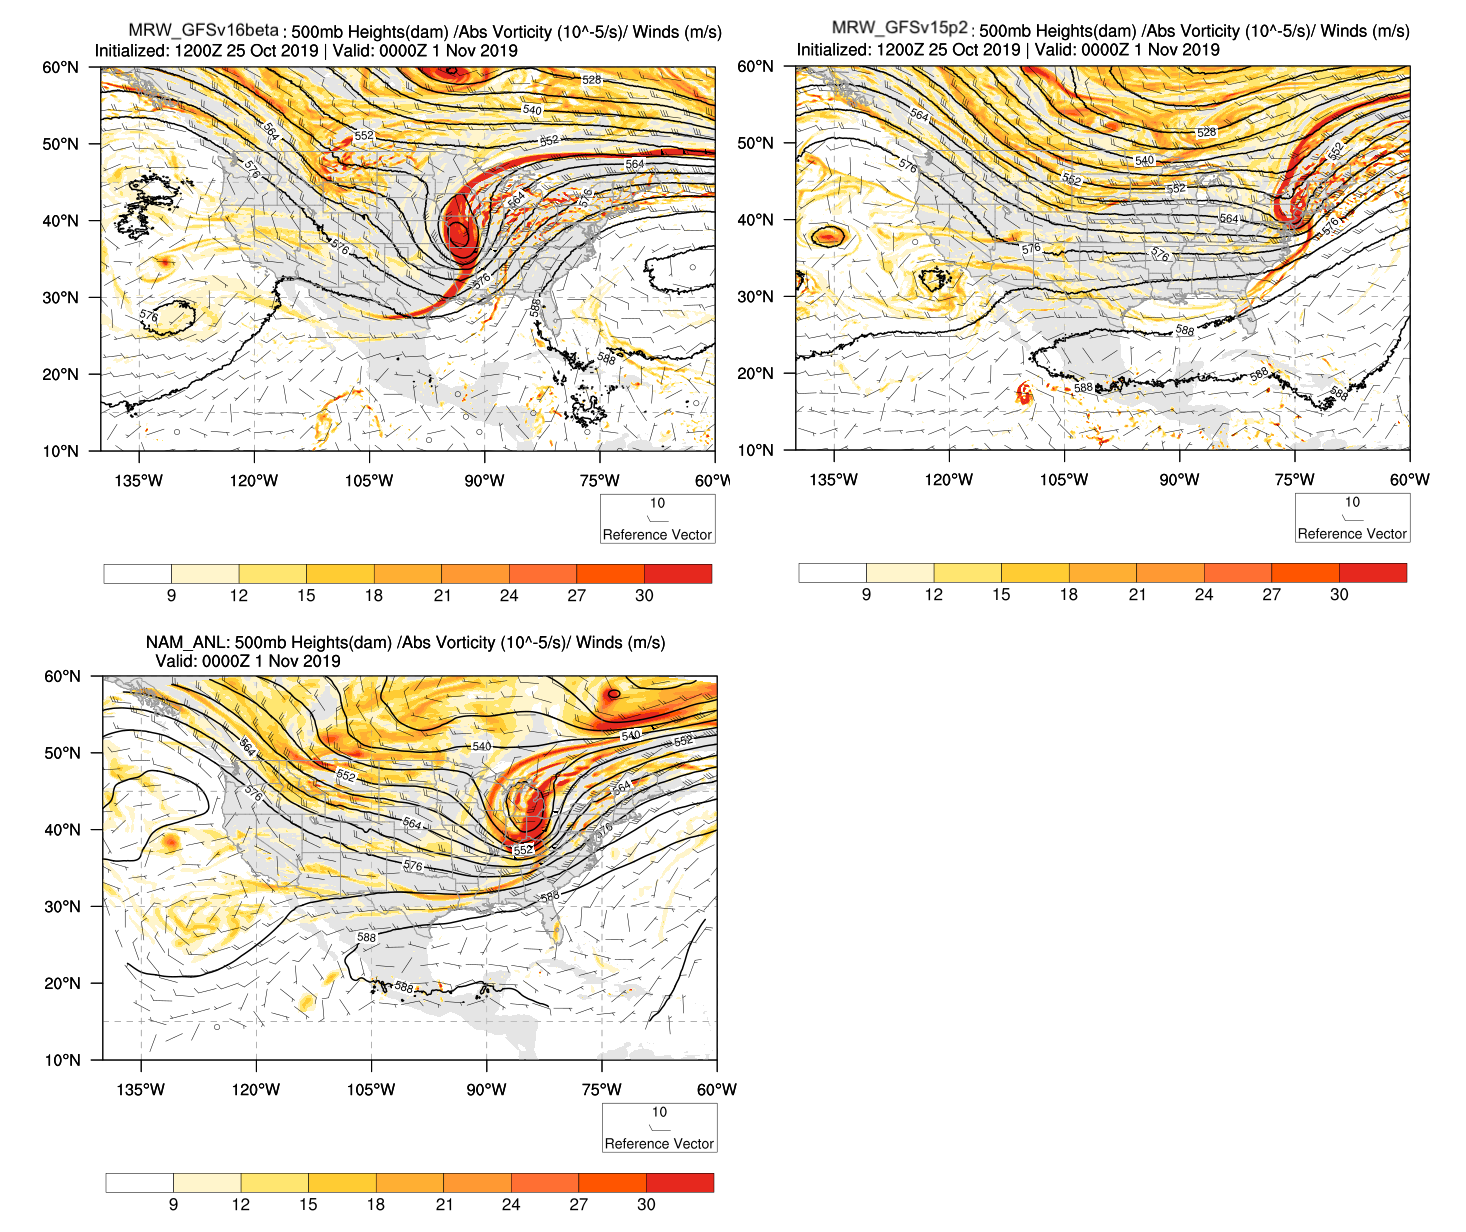
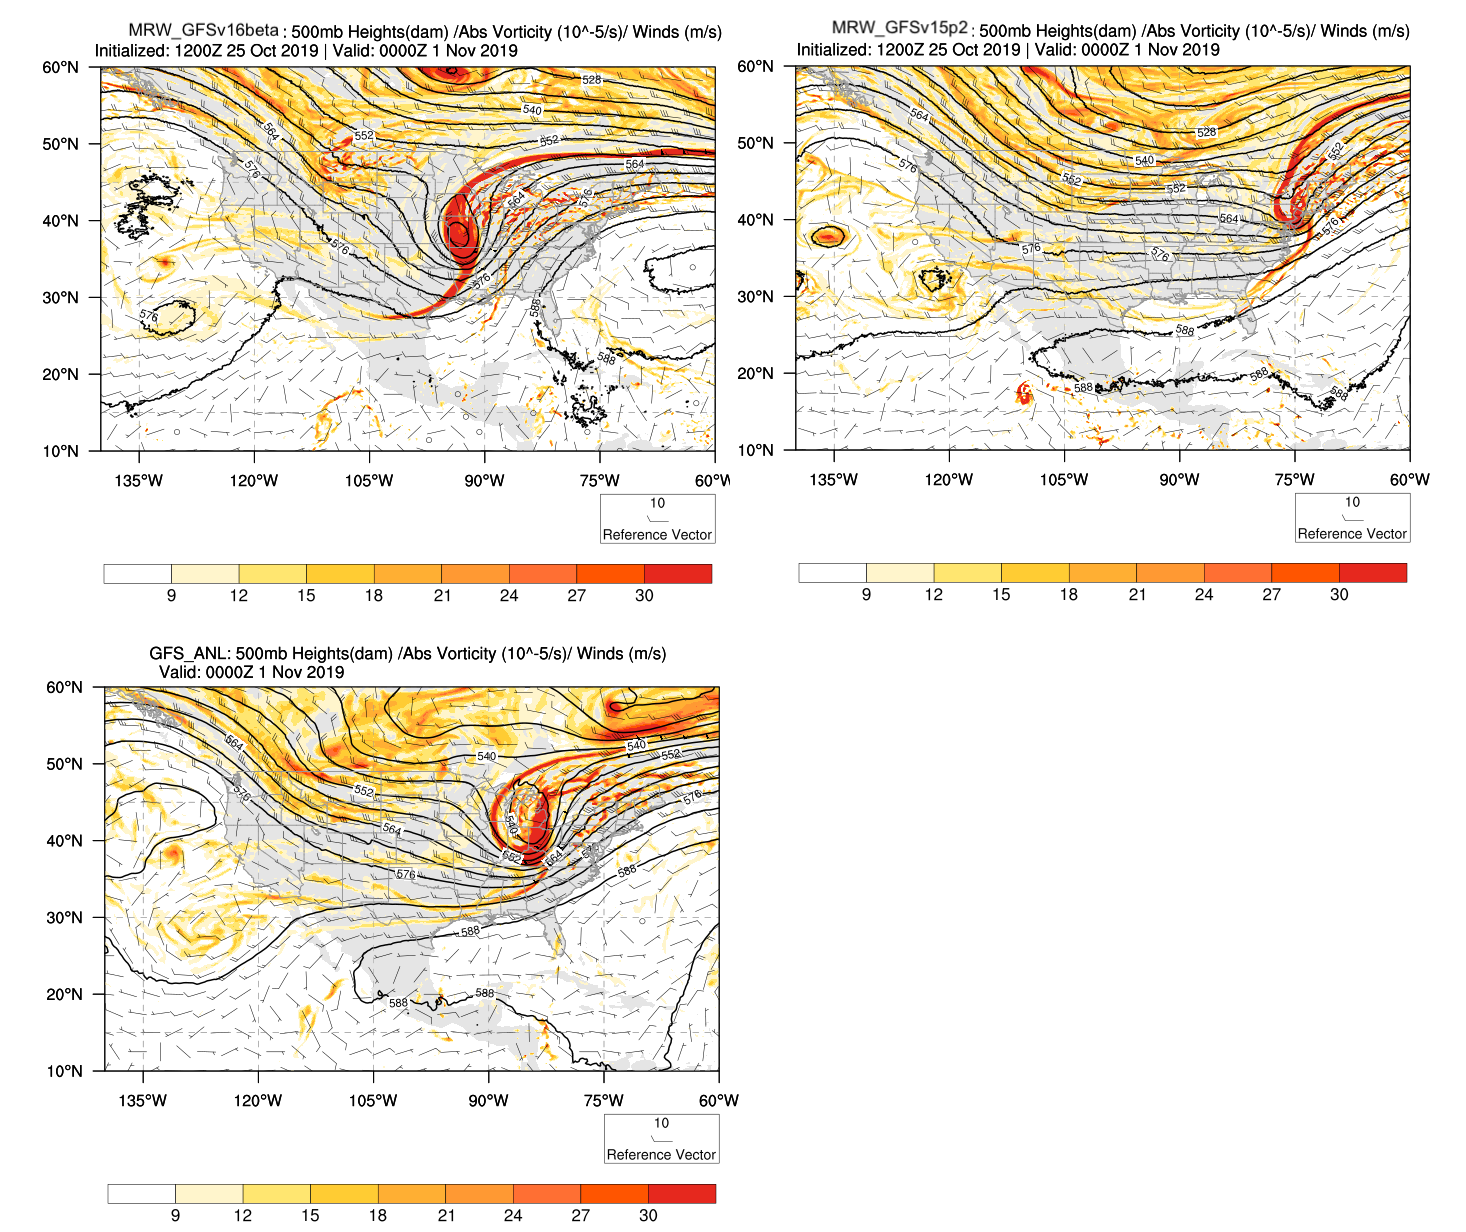
Add GFS.v.16.0.10 results for 2019 Halloween Storm Case (#4)
* change legends to MRW_GFSv15p2 and MRW_GFSv16beta

* add GFS.v16.0.10 results for 2019HalloweenStorm case

* update README

* update requirements.txt

Changed region(s): [[0.0307, 0.4935, 0.5218, 0.987]]

diff --git a/docs/source/conf.py b/docs/source/conf.py
@@ -69,6 +69,7 @@ extensions = [
     'sphinx.ext.viewcode',
     'sphinx.ext.autodoc',
     'sphinx_gallery.gen_gallery',
+    'sphinx_tabs.tabs',
 #    'sphinx_rtd_theme',
 #    'sphinx_gallery.gen_gallery',
 #    'sphinx-prompt',

diff --git a/docs/source/2019Haloween.rst b/docs/source/2019Haloween.rst
@@ -13,25 +13,51 @@ The 2019 Halloween storm stroke the eastern U.S. cities with wind gusts, thunder
 ..............................
 Model Configuration and Datasets
 ..............................
+.. tabs::
+  .. group-tab:: MRW.v1.0
 
-The case runs are initialized at 12z Oct 25, 2019 with 120 hours forecasting. The corresponding namelist options that need to be changed are listed below. The app uses ``./xmlchange`` to change the runtime settings. The settings that need to be modified to set up the start date, start time, and run time are listed below.
+    The UFS Medium-Range Weather (MRW) Application (App) is used to prepare initial conditions, compile and run the UFS model, and post process the raw model outputs. Two model configuration compsets (``GFSv15p2`` and ``GFSv16beta``) are tested using the :emphasis:`C768` (~13km) spatial resolution with 64 vertical levels (default).
 
-.. code-block:: bash
+    The case runs are initialized at 12z Oct 25, 2019 with 120 hours forecasting. The corresponding namelist options that need to be changed are listed below. The app uses ``./xmlchange`` to change the runtime settings. The settings that need to be modified to set up the start date, start time, and run time are listed below.
+
+    .. code-block:: bash
  
-   ./xmlchange RUN_STARTDATE=20191025,START_TOD=43200,STOP_OPTION=nhours,STOP_N=120
+      ./xmlchange RUN_STARTDATE=20191025,START_TOD=43200,STOP_OPTION=nhours,STOP_N=120
 
-.. warning:: The model run time step is reduced from the default 225s to 150s in this case due to the model instability in GFSv16beta. To set the time step, add ``dt_atmos=150`` to ``user_nl_ufsatm``
+    .. warning:: The model run time step is reduced from the default 225s to 150s in this case due to the model instability in GFSv16beta. To set the time step, add ``dt_atmos=150`` to ``user_nl_ufsatm``
 
-Initial condition (IC) files are created from GFS operational dataset in NEMSIO format. The `GFS reanalysis dataset <https://www.ncdc.noaa.gov/data-access/model-data/model-datasets/global-forcast-system-gfs>`_ are used as 'truth' to compare with simulation results.
+    Initial condition (IC) files are created from GFS operational dataset in NEMSIO format. The `GFS reanalysis dataset <https://www.ncdc.noaa.gov/data-access/model-data/model-datasets/global-forcast-system-gfs>`_ are used as 'truth' to compare with simulation results.
 
- .. container:: sphx-glr-footer
-    :class: sphx-glr-footer-example
+    .. container:: sphx-glr-footer
+       :class: sphx-glr-footer-example
 
 
+      .. container:: sphx-glr-download sphx-glr-download-python
 
-  .. container:: sphx-glr-download sphx-glr-download-python
+        :download:`Download initial condition files: 2019102512.gfs.nemsio.tar.gz <https://domain.invalid/>`
+  
+  .. group-tab:: GFS.v16.0.10
 
-     :download:`Download initial condition files: 2019102512.gfs.nemsio.tar.gz <https://domain.invalid/>`
+    The GFS model EMC global workflow points to the most up-to-date GFS model development code. The GFS.v16.0.10 is tested in C768 (~13km) resolution and in 128 vertical levels. It uses to two scripts, ``./setup_expt_fcstonly.py`` and ``setup_workflow_fcstonly.py`` to set up the mode simulation date and case directories.
+
+    The case runs are initialized at 12z Oct 25, 2019 with 120 hours forecasting. The settings that need to be modified to set up the start date and directories are listed below. 
+
+    .. code-block:: bash
+ 
+      ./setup_expt_fcstonly.py --pslot 2019Halloween --configdir /PATH/TO/YOUR/GLOBAL/WORKFLOW/parm/config --idate 2019071100 --edate 2019071100 --res 768 --comrot /PATH/TO/YOUR/EXP/DIR/comrot --expdir /PATH/TO/YOUR/EXP/OUTPUT/expdir 
+
+    The account and simulation duration time can be set up in ``/expdir/2019Halloween/config.base`` file. 
+
+    .. code-block:: bash
+
+      ./setup_workflow_fcstonly.py --expdir /PATH/TO/YOUR/OUTPUT/expdir/Barry 
+
+    Next step is to go to ``/expdir/2019Halloween`` to submit the run by
+
+    .. code-block:: bash
+   
+      crontab Barry.crontab  
+        
 ..............
 Case Results
 ..............
@@ -39,45 +65,83 @@ Case Results
 ======================================================
 500 mb Geopotential Height and Absolute Vorticity Map
 ======================================================
+.. tabs::
+  .. group-tab:: MRW.v1.0
 
-.. figure:: images/500mb_2019110100_150s.png
-  :width: 1200
-  :align: center
+    .. figure:: images/500mb_2019110100_150s.png
+      :width: 1200
+      :align: center
 
-  500 hPa geopotential heights (dam), absolute vorticity (10 :sup:`-5`/s), and winds (m/s)
+      500 hPa geopotential heights (dam), absolute vorticity (10 :sup:`-5`/s), and winds (m/s)
 
-* MRW_GFSv15p2 generates a progressive synoptic pattern compared with reanalysis data. 
-* MRW_GFSv16beta alleviates the progressiveness of synoptic pattern.
+    * MRW_GFSv15p2 generates a progressive synoptic pattern compared with reanalysis data. 
+    * MRW_GFSv16beta alleviates the progressiveness of synoptic pattern.
+  .. group-tab:: GFS.v16.0.10
+
+    .. figure:: images/Halloween_GFS.v16.0.10_500mb_2019110100.png
+      :width: 1200
+      :align: center
+
+      500 hPa geopotential heights (dam), absolute vorticity (10 :sup:`-5`/s), and winds (m/s)
+
+    * GFS.v16.0.10 generates a progressive synoptic pattern compared with reanalysis data. 
 
 ====================================
 Surface Gust and 2-m Temperature
 ====================================
+.. tabs::
+  .. group-tab:: MRW.v1.0
 
-.. figure:: images/Halloween_f156_GUST_surface.png
-  :width: 1200
-  :align: center
+    .. figure:: images/Halloween_f156_GUST_surface.png
+      :width: 1200
+      :align: center
 
-  Surface gust (m/s) valid at 00z 1 Nov 2019
+      Surface gust (m/s) valid at 00z 1 Nov 2019
 
-* MRW_GFSv15p2 captures the magnitudes of surface gust in GFS_ANL. 
-* MRW_GFSv16beta does not reach the peak of surface gust in GFS_ANL. 
-  
-.. figure:: images/Haloween_f156_TMP_2maboveground.png
-  :width: 1200
-  :align: center
+    * MRW_GFSv15p2 captures the magnitudes of surface gust in GFS_ANL. 
+    * MRW_GFSv16beta does not reach the peak of surface gust in GFS_ANL. 
+    .. figure:: images/Haloween_f156_TMP_2maboveground.png
+      :width: 1200
+      :align: center
 
-  2-m temperature (K) valid at 00z 1 Nov 2019 
+      2-m temperature (K) valid at 00z 1 Nov 2019 
 
-* Colder 2-m T in MRW_GFSv15p2 along the U.S. east coast compared with GFS_ANL
-* Colder 2-m T at New England and warmer 2-m T at the Southeast in MRW_GFSv16beta
+    * Colder 2-m T in MRW_GFSv15p2 along the U.S. east coast compared with GFS_ANL
+    * Colder 2-m T at New England and warmer 2-m T at the Southeast in MRW_GFSv16beta  
+  .. group-tab:: GFS.v16.0.10
+
+    .. figure:: images/Halloween_GFS16.0.10_f156_GUST_surface.png
+      :width: 1200
+      :align: center
+
+      Surface gust (m/s) valid at 00z 1 Nov 2019
+
+    * GFS.v16.0.10 does not capture the surface gust at the Great Lakes Region, accompanied by a faster-moving and narrower trough compared with GFS_ANL. 
+      
+    .. figure:: images/Halloween_GFS16.0.10_f156_TMP_2maboveground.png
+      :width: 1200
+      :align: center
+
+      2-m temperature (K) valid at 00z 1 Nov 2019 
+
+    * Colder 2-m T in GFS.v16.0.10 along the U.S. east coast compared with GFS_ANL
 
 
 ====================================
 Composite Reflectivity
 ====================================
+.. tabs::
+  .. group-tab:: MRW.v1.0
 
-.. figure:: images/Halloween_f156_REFC_entireatmosphere.png
-  :width: 1200
-  :align: center
+    .. figure:: images/Halloween_f156_REFC_entireatmosphere.png
+      :width: 1200
+      :align: center
 
-  Composite reflectivity (dB)
+      Composite reflectivity (dB)
+  .. group-tab:: GFS.v16.0.10
+
+    .. figure:: images/Halloween_GFS16.0.10_f156_REFC_entireatmosphere.png
+      :width: 1200
+      :align: center
+
+      Composite reflectivity (dB)  

diff --git a/docs/source/Intro.rst b/docs/source/Intro.rst
@@ -9,9 +9,17 @@ Introduction
 
 Challenges for accurate weather prediction still exist in numerical models. To facilitate the development and improvement of the NOAA `Unified Forecast System (UFS) <https://ufscommunity.org/>`_ Weather Model (WM), case studies are needed based on these forecast challenges. There are several known model biases in the UFS WM. These known biases include but are not limited to progressive synoptic patters, degraded tropical cyclone tracks, and incapability to simulate stable boundary layer structures.
 
-This document provides case studies evaluation results for the UFS WM using the `UFS Medium Range Weather (MRW) App <https://ufs-mrweather-app.readthedocs.io/en/latest/index.html>`_. The app uses a workflow that incorporates pre-processing software, forecast model, and post-processor. The app serves as a useful tool to conduct the UFS WM runs. It should be noted that this is an ongoing effort that is aligned with the model development and model public release. Namely these evaluation results only apply to specific model versions. The latest evaluation results are based on physics compsets of ``GFSv15p2`` and ``GFSv16beta`` employed in UFS Medium Range Weather App *v1.0*, hereafter referred to as MRW_GFSv15p2 and MRW_GFSv16beta, respectively.
+This document provides case studies evaluation results for the UFS Weather Model using `UFS Medium Range Weather (MRW) App <https://ufs-mrweather-app.readthedocs.io/en/latest/index.html>`_ and `NOAA Enviromental Model Center (EMC) Global Workflow <https://github.com/NOAA-EMC/global-workflow/wiki>`_. It should be noted that this is an ongoing effort that is aligned with the model public release and model development. Namely these evaluation results only apply to specific model versions.
 
-The goal of this ongoing effort is to provide the community with a model testing platform where they can use the resources to conduct model runs and evaluate the model performance for representative meteorological cases. These case studies will provide insights for future model developments in aim to improve NOAA numerical weather forecasts. 
+.. tabs::
+  .. tab:: Medium-Range Weather (MRW) App 
+
+	The `UFS Medium Range Weather (MRW) App <https://ufs-mrweather-app.readthedocs.io/en/latest/index.html>`_ uses the `Common Infrastructure for Modeling the Earth (CIME) workflow <https://esmci.github.io/cime/versions/ufs_release_v1.0/html/index.html>`_ that incorporates pre-processing software, forecast model, and post-processor. The app serves as a useful tool to conduct the UFS WM runs. The latest evaluation results are based on physics compsets of ``GFSv15p2`` and ``GFSv16beta`` employed in UFS Medium Range Weather App *v1.0*, hereafter referred to as MRW_GFSv15p2 and MRW_GFSv16beta, respectively.
+  .. tab:: Global Workflow
+
+	The `Global Workflow <https://github.com/NOAA-EMC/global-workflow>`_ developed by `NOAA EMC <https://www.emc.ncep.noaa.gov/emc_new.php>`_ is a superstructure that supports the Finite-Volume on a Cubed-Sphere Global Forecast System (FV3GFS) development. It includes submodules that points to the most up-to-date GFS model development codes. Case study results are updated each time the physics innovations are included in the GFS model between two subsequent public releases.
+
+The goal of this ongoing effort is to provide the community, as well as the physics development team, with a model testing platform where they can use the resources to conduct model runs and evaluate the model performance for representative meteorological cases. These case studies will provide insights for future model developments in aim to improve NOAA numerical weather forecasts. 
 
 The case catalogue in this documentation are created based on the known biases of the UFS WM. This is a list that we are updating diligently. Please come back to check updates anytime.
 

diff --git a/docs/source/index.rst b/docs/source/index.rst
@@ -24,9 +24,18 @@ Welcome to the Case Studies Page for the UFS Weather Model
 | |logo1| | |logo2| | |logo3| |
 +---------+---------+---------+
 
+.. tabs::
+  .. tab:: Medium-Range Weather (MRW) App 
 
-:Release:  *ufs-v1.0*
-:Compsets:  ``GFSv16beta``, ``GFSv15p2``
+    :GitHub: `ufs-community/ufs-mrweather-app <https://github.com/ufs-community/ufs-mrweather-app>`_
+    :Public Release:  *v1.0*
+    :Compsets:  ``GFSv16beta``, ``GFSv15p2``
+  .. tab:: Global Workflow
+
+    :GitHub: `NOAA-EMC/global-workflow <https://github.com/NOAA-EMC/global-workflow>`_
+    :Branch:  *feature/gfs16b*
+    :ufs-weather-model tag:  ``GFS.v16.0.10``    
+
 :Date:  |today|  
 :Case Catalog:
   * :ref:`2019 Hurricane Barry <2019 Hurricane Barry>`
@@ -44,6 +53,7 @@ Notable Links
 * `Developmental Testbed Center (DTC) <https://www.dtcenter.org/>`_
 * `Unified Forecast System (UFS) <https://ufscommunity.org/>`_
 * `The UFS Medium-Range Weather App Users Guide <https://ufs-mrweather-app.readthedocs.io/en/latest/index.html>`_
+* `NOAA Environmental Modeling Center (EMC) global-workflow GitHub Wiki page <https://github.com/NOAA-EMC/global-workflow/wiki>`_
 * `Current known biases of UFS <https://drive.google.com/file/d/1rdFPbY28d7cRrcShy0uo4Mtqwh3BSzYg/view>`_
 
 ..............................

diff --git a/README.md b/README.md
@@ -3,7 +3,7 @@
 This documentation provides resources, including initial condition datasets and example programming scripts, for representative case studies in the Unified Forecast System (UFS) Weather model.
 
 ### Important links:
-* HTML Documentation: ufs-case-studies.readthedocs.io/en/latest
+* HTML Documentation: ufs-case-studies.readthedocs.io/
 * GitHub repository: https://github.com/dtcenter/ufs-case-studies
 
 ### ufs-case-studies Development Team

diff --git a/docs/source/2019Barry.rst b/docs/source/2019Barry.rst
@@ -98,8 +98,4 @@ Hovmöller diagram of 850 hPa WS after Landfall
 
 * The low-level wind speed in GFS model is smaller than GFS_ANL
 * The MRW_GFSv16beta has the largest inner core size. MRW_GFS15p2 has similar inner core sizes and GFS_ANL 
-* Hurricane intensity attenuates faster in the model compared with BestTrack after landfall 
-
-
-
-
+* Hurricane intensity attenuates faster in the model compared with Best Track after landfall 
